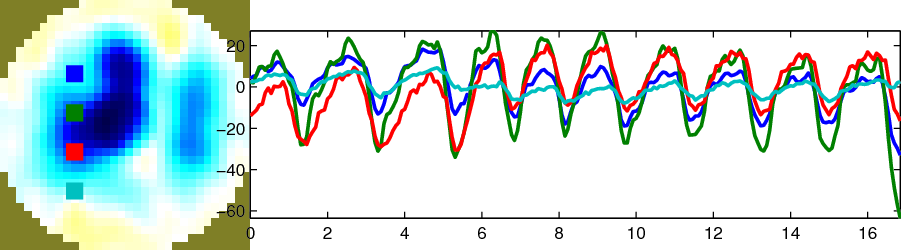
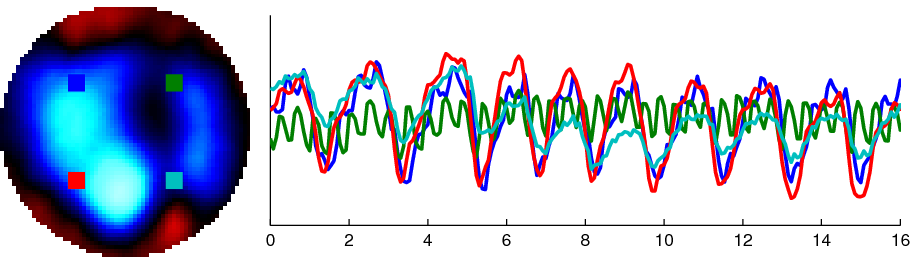
Update tutorial to standard GREIT
git-svn-id: svn://svn.code.sf.net/p/eidors3d/code/trunk@3454 82006732-fb7e-4a22-9f28-86a212cce563

diff --git a/htdocs/tutorial/GREIT/neonate_ex03.m b/htdocs/tutorial/GREIT/neonate_ex03.m
@@ -1,26 +1,30 @@
-vh = mean(vv,2);        % reference is average
-img = inv_solve(imdl,vh,vv);
-img.calc_colours.ref_level=0;
-img.calc_colours.npoints  =32;
-
-% Yposns of where to plot
-yposns = [10:5:25];
+% positions of where to plot
+yposns = [20 20 45 45];
+xposns = [20 45 20 45];
 
 % Show image
 clf; axes('position',[0.05,0.5,0.25,0.45]);
-img1= img; img1.elem_data = img.elem_data(:,45);
+img1= imgall; img1.elem_data = imgall.elem_data(:,45);
 show_slices(img1);
-hold on;
-plot(10,yposns,'s','LineWidth',5);
+hold all;
+for i = 1:4
+    plot(xposns(i),yposns(i),'s','LineWidth',5);
+end
 hold off;
 
 % Show plots
-imgs = calc_slices(img);
-axes('position',[0.30,0.6,0.65,0.25]);
+imgs = calc_slices(imgall);
+axes('position',[0.32,0.6,0.63,0.28]);
 
 imgs = permute(imgs,[3,1,2]);
 taxis =  (0:size(imgs,1)-1)/13; % frame rate = 13
-plot(taxis,imgs(:,yposns,10),'LineWidth',2);
-axis tight
+hold all
+for i = 1:4
+    plot(taxis,imgs(:,yposns(i),xposns(i)),'LineWidth',2);
+end
+hold off
+set(gca,'ytick',[]);
+xlim([0 16]);
+
 
 print_convert neonate_ex03a.png

diff --git a/htdocs/tutorial/GREIT/neonate_ex02.m b/htdocs/tutorial/GREIT/neonate_ex02.m
@@ -1,9 +1,17 @@
-vh = mean(vv,2);        % reference is average
-vi = vv(:,[45,70,173]); %3 inspirations
+% solve with reference to the mean
+imgall = inv_solve(imdl,mean(vv,2),vv);
+[ins, exp] = find_frc(imgall,[],13,[],2); % find breaths
 
-img = inv_solve(imdl,vh,vi);
 
-img.show_slices.img_cols = 3;
+% use expirations as reference
+vh = mean(vv(:,exp),2);  % reference is average
+img = inv_solve(imdl,vh,vv);
+img.elem_data = img.elem_data(:,ins); %only show inspirations
+calc_colours('defaults');
+calc_colours('ref_level',0);
+calc_colours('backgnd',[1 1 1]);
+calc_colours('greylev', 0.001);
+img.show_slices.img_cols = 4;
 img.show_slices.sep      = 2;
 img.calc_colours.ref_level=0;
 show_slices(img);

diff --git a/htdocs/tutorial/GREIT/neonate_ex01.m b/htdocs/tutorial/GREIT/neonate_ex01.m
@@ -1,5 +1,11 @@
 % Inverse model
-imdl = mk_common_gridmdl('GREITc1');
+fmdl = mk_library_model('neonate_16el');
+[fmdl.stimulation fmdl.meas_select] = mk_stim_patterns(16,1,'{ad}','{ad}');
+fmdl = mdl_normalize(fmdl,1);
+img = mk_image(fmdl,1);
+opt.noise_figure = 0.5; opt.imgsz = [64 64];
+imdl = mk_GREIT_model(img, 0.25, [], opt);
+% imdl = mk_common_gridmdl('GREITc1');
 
 % Data: eidors3d.sf.net/data_contrib/if-neonate-spontaneous/if-neonate-spontaneous.zip
 vv= eidors_readdata('P04P-1016.get');
